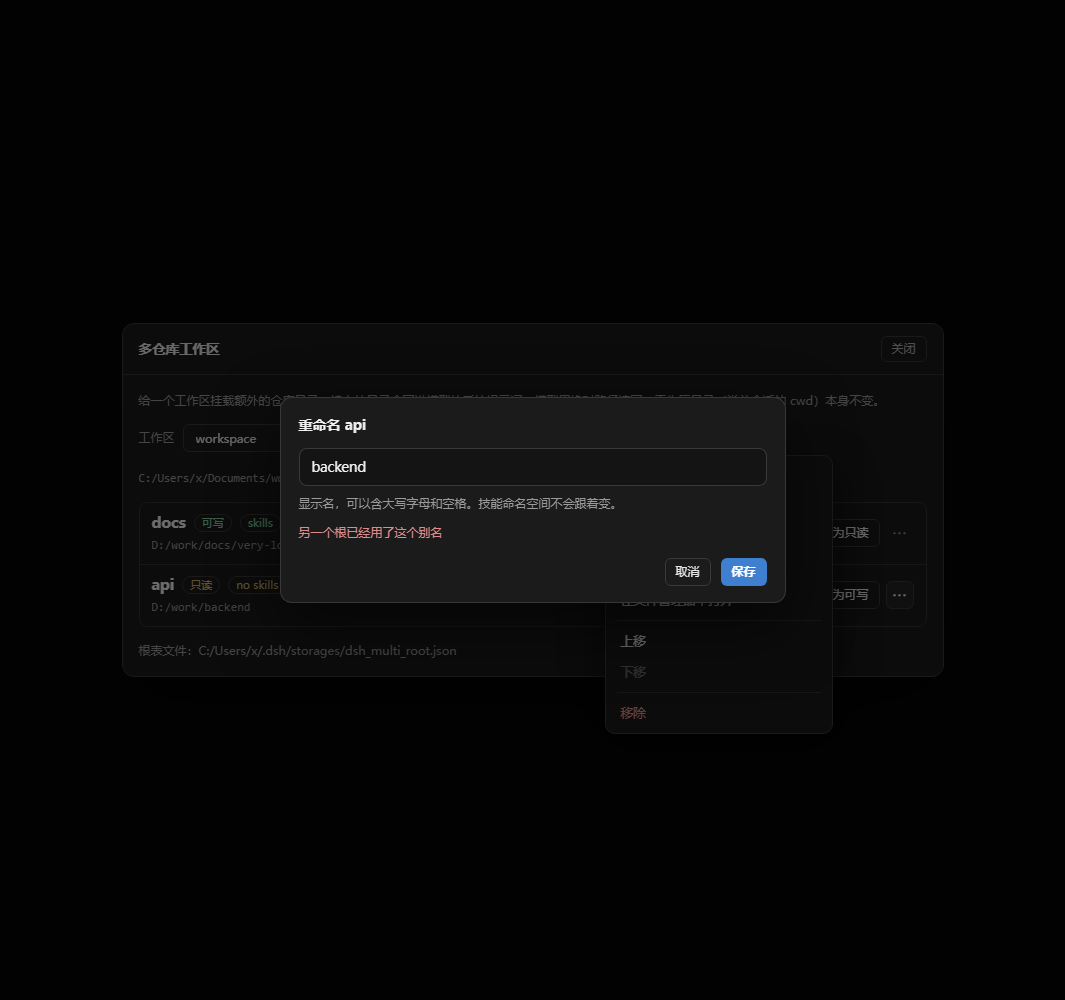
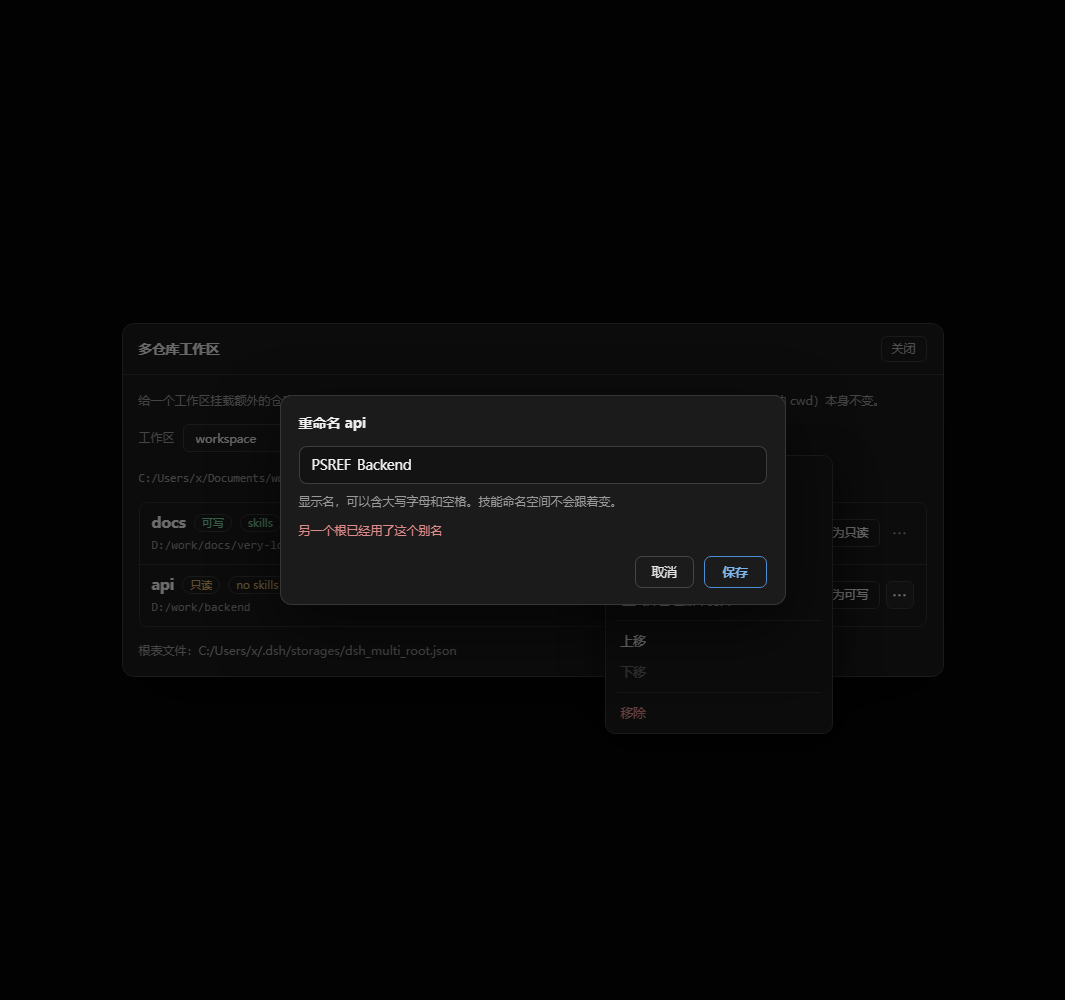
fix(panel): inline the rename field and buttons so host resets cannot win

Changed region(s): [[0.2789, 0.403, 0.5887, 0.558], [0.5887, 0.558, 0.7437, 0.589]]

diff --git a/src/client.js b/src/client.js
@@ -123,7 +123,7 @@
         '.mr-sheet-actions{display:flex;justify-content:flex-end;gap:10px;margin-top:6px}',
         '.mr-sheet .mr-input{display:block;box-sizing:border-box;width:100%;height:38px;padding:0 12px;border-radius:8px;border:1px solid rgba(128,128,128,.34);background:var(--dsw-alias-bg-base,#141414);color:var(--dsw-alias-label-primary,#f2f2f2);font:inherit;font-size:13.5px;line-height:1.4;outline:none;appearance:none;-webkit-appearance:none;transition:border-color .12s ease,box-shadow .12s ease}',
         '.mr-sheet .mr-input:focus{border-color:var(--dsw-alias-brand-primary,#4a8fd6);box-shadow:0 0 0 2px rgba(74,143,214,.22)}',
-        '.mr-primary{border-color:transparent;background:var(--dsw-alias-brand-primary,#3f7fd0);color:#fff;font-weight:600}',
+        '.mr-primary{border-color:var(--dsw-alias-brand-primary,#4a8fd6);color:var(--dsw-alias-brand-primary,#7fb3e8);font-weight:600}',
         '.mr-edit-error{color:var(--dsw-alias-state-error-primary,#e08b8b);font-size:12px}',
         '.mr-note{margin:0;color:var(--dsw-alias-label-secondary,#9a9a9a);font-size:12px;line-height:1.6}',
         '.mr-error{margin:0;color:var(--dsw-alias-state-error-primary,#e08b8b);font-size:12px}',
@@ -708,16 +708,68 @@
           children.push(h('div', { className: 'mr-list', key: 'list' }, items))
 
           if (edit !== null) {
+            var sheetSkin = {
+              border: '1px solid rgba(128,128,128,.28)',
+              borderRadius: '12px',
+              background: 'var(--dsw-alias-bg-layer-1, #1b1b1b)',
+              boxShadow: '0 24px 64px rgba(0,0,0,.55)',
+            }
+            var fieldSkin = {
+              display: 'block',
+              boxSizing: 'border-box',
+              width: '100%',
+              height: '38px',
+              padding: '0 12px',
+              borderRadius: '8px',
+              border: '1px solid rgba(128,128,128,.38)',
+              background: 'rgba(0,0,0,.28)',
+              color: 'var(--dsw-alias-label-primary, #f2f2f2)',
+              fontFamily: 'inherit',
+              fontSize: '13.5px',
+              lineHeight: '36px',
+              outline: 'none',
+              appearance: 'none',
+            }
+            var ghostSkin = {
+              display: 'inline-flex',
+              alignItems: 'center',
+              justifyContent: 'center',
+              height: '32px',
+              padding: '0 16px',
+              borderRadius: '7px',
+              border: '1px solid rgba(128,128,128,.42)',
+              background: 'transparent',
+              color: 'inherit',
+              fontFamily: 'inherit',
+              fontSize: '12.5px',
+              cursor: 'pointer',
+            }
+            var primarySkin = {
+              display: 'inline-flex',
+              alignItems: 'center',
+              justifyContent: 'center',
+              height: '32px',
+              padding: '0 18px',
+              borderRadius: '7px',
+              border: '1px solid var(--dsw-alias-brand-primary, #4a8fd6)',
+              background: 'transparent',
+              color: 'var(--dsw-alias-brand-primary, #7fb3e8)',
+              fontFamily: 'inherit',
+              fontSize: '12.5px',
+              fontWeight: '600',
+              cursor: busy ? 'default' : 'pointer',
+            }
             children.push(h('div', {
               className: 'mr-overlay mr-overlay--nested',
               key: 'edit',
               onMouseDown: function (event) { if (event.target === event.currentTarget) setEdit(null) },
             },
-              h('div', { className: 'mr-sheet', role: 'dialog', 'aria-modal': 'true' },
+              h('div', { className: 'mr-sheet', role: 'dialog', 'aria-modal': 'true', style: sheetSkin },
                 h('div', { className: 'mr-sheet-title' },
                   edit.field === 'alias' ? '重命名 ' + edit.label : 'Skill Namespace：' + edit.label),
                 h('input', {
                   className: 'mr-input',
+                  style: fieldSkin,
                   value: edit.value,
                   autoFocus: true,
                   spellCheck: false,
@@ -741,11 +793,13 @@
                 h('div', { className: 'mr-sheet-actions' },
                   h('button', {
                     className: 'mr-btn',
+                    style: ghostSkin,
                     type: 'button',
                     onClick: function () { setEdit(null) },
                   }, '取消'),
                   h('button', {
                     className: 'mr-btn mr-primary',
+                    style: primarySkin,
                     type: 'button',
                     disabled: busy,
                     onClick: submitEdit,
